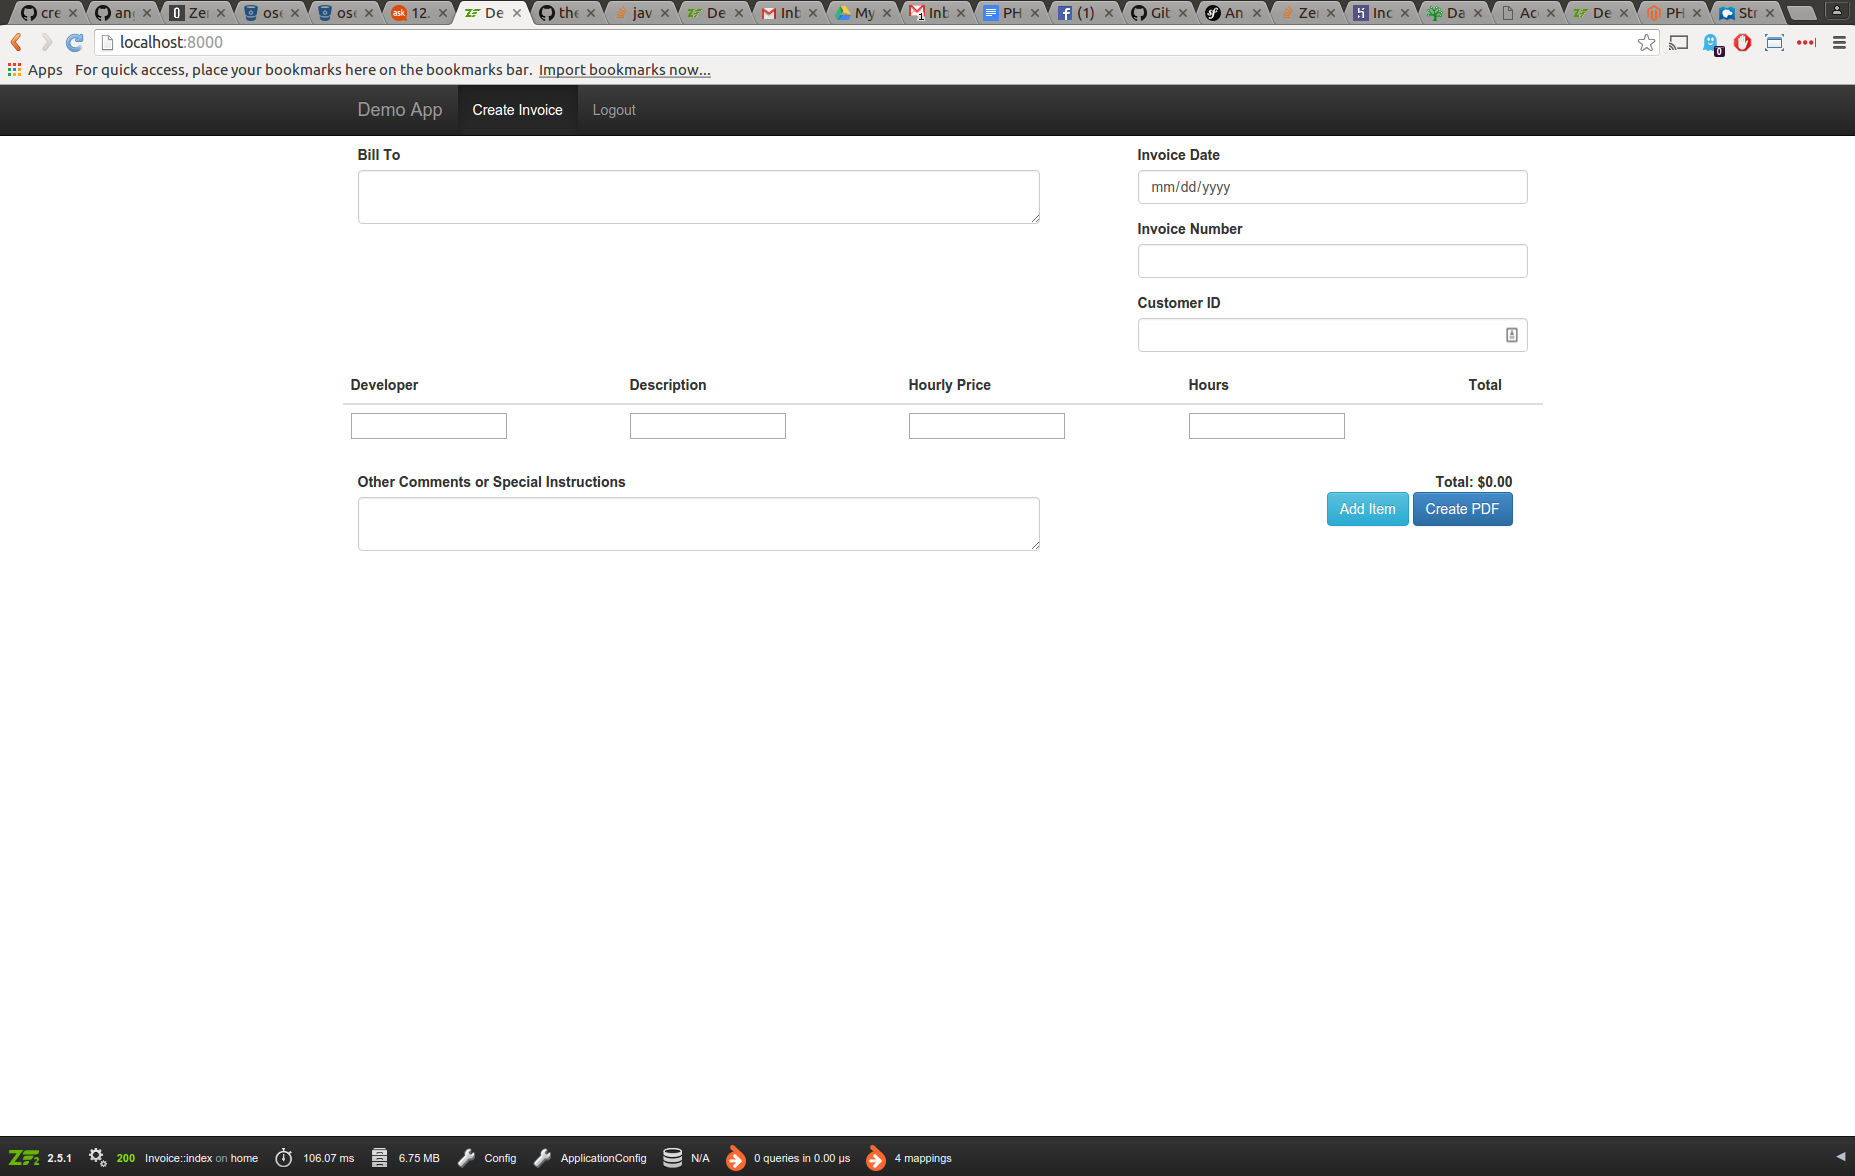
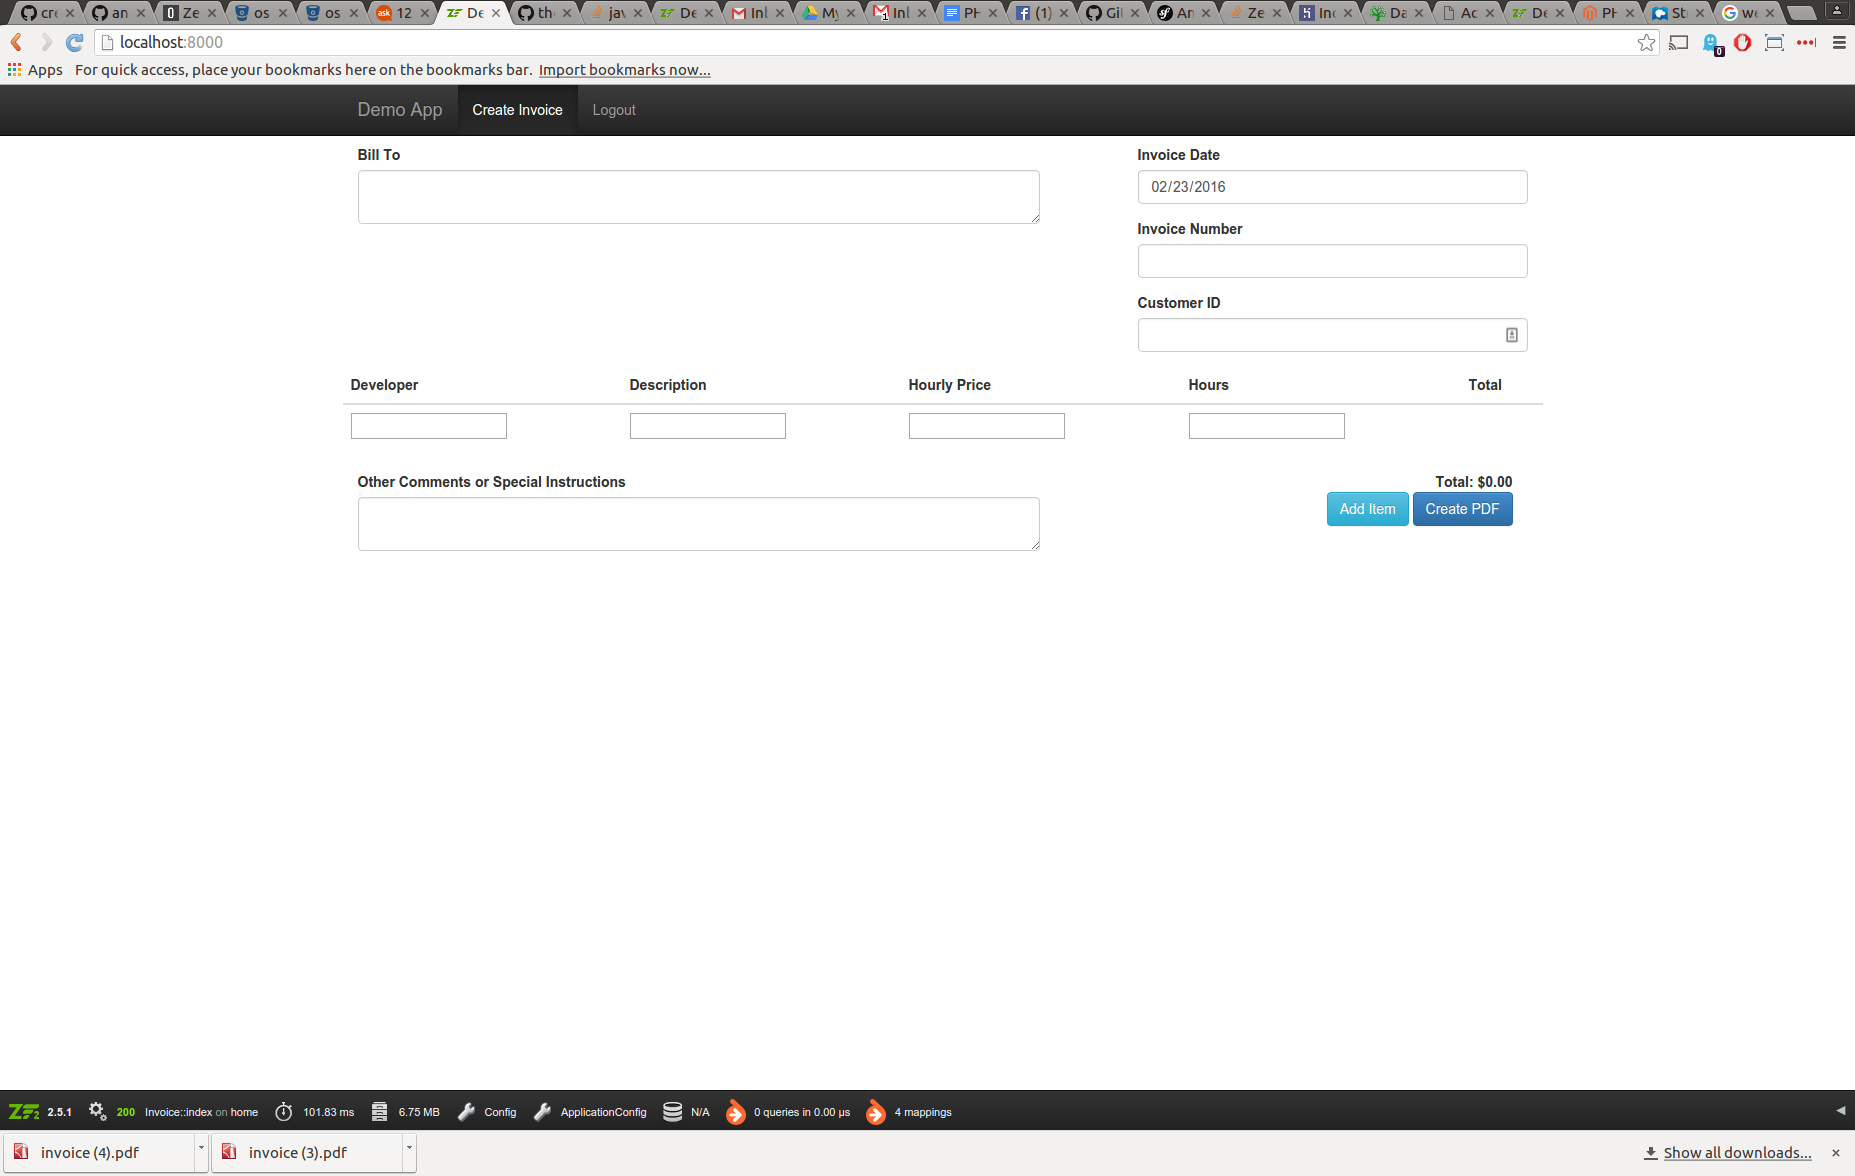
Defaulted invoice date on form to today.

Changed region(s): [[0.0, 0.9184, 1.0, 1.0], [0.0307, 0.0, 0.9526, 0.0306], [0.6146, 0.1531, 0.676, 0.1837]]

diff --git a/module/Application/src/Application/Controller/InvoiceController.php b/module/Application/src/Application/Controller/InvoiceController.php
@@ -24,6 +24,7 @@ class InvoiceController extends AbstractActionController
     public function indexAction()
     {
         $form = (new AnnotationBuilder())->createForm(Invoice::class);
+        $form->populateValues((new Invoice())->getArrayCopy());
         return new ViewModel([
             'form'  => $form
         ]);

diff --git a/module/Application/src/Application/Entity/Invoice.php b/module/Application/src/Application/Entity/Invoice.php
@@ -271,6 +271,8 @@ class Invoice implements ArraySerializableInterface
      */
     public function getArrayCopy()
     {
-        return get_object_vars($this);
+        return [
+            'invoicedOn'    => $this->invoicedOn->format('Y-m-d')
+        ];
     }
 }
